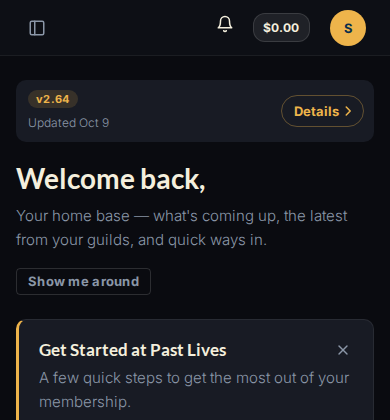
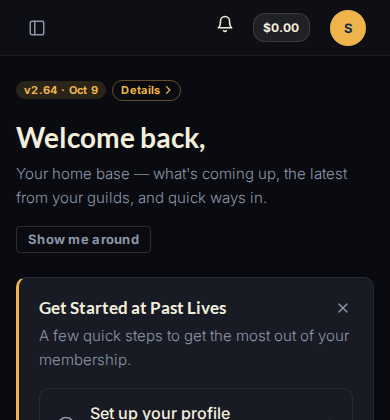
[hub] The quiet Spotlight moves above the divider: the version pill carries the date, Details beside it
Claude-Session: https://claude.ai/code/session_01Ktr8dTP7irLNhJtzRvczD9

diff --git a/static/css/spotlight.css b/static/css/spotlight.css
@@ -727,29 +727,19 @@ html:not([data-spotlight-min]) .pl-spotlight-live .pl-spotlight--minimized {
 }
 
 /* Quiet: no poll and no meeting. The version pill that sat under the logo before the
-   Spotlight, the newest update's date under it, and Details on the right, on a soft strip
-   with no border. */
+   Spotlight, now carrying the newest update's date, and Details as a matching outlined pill. */
 .pl-spotlight--quiet {
     display: flex;
     align-items: center;
-    justify-content: space-between;
-    gap: 0.5rem;
-    padding: 0.625rem 0.625rem 0.625rem 0.75rem;
-    border-radius: 10px;
-    background-color: var(--hub-card-bg);
+    gap: 0.375rem;
 }
 
 .pl-spotlight__quiet-info {
     display: flex;
-    flex-direction: column;
-    align-items: flex-start;
-    gap: 0.3125rem;
     min-width: 0;
 }
 
-.pl-spotlight__quiet-date {
-    font-size: 0.75rem;
-    color: var(--hub-text-muted);
+.pl-spotlight--quiet .pl-badge--version {
     white-space: nowrap;
 }
 
@@ -757,16 +747,17 @@ html:not([data-spotlight-min]) .pl-spotlight-live .pl-spotlight--minimized {
     display: inline-flex;
     flex-shrink: 0;
     align-items: center;
-    gap: 0.125rem;
-    min-height: 32px;
-    padding: 0.25rem 0.5rem 0.25rem 0.75rem;
-    border: 1px solid rgba(238, 180, 75, 0.35);
+    gap: 0.0625rem;
+    padding: 0.0625rem 0.375rem 0.0625rem 0.5rem;
+    border: 1px solid rgba(238, 180, 75, 0.4);
     border-radius: 999px;
     background: none;
-    color: var(--hub-link);
+    color: var(--color-tuscan-yellow);
     font-family: var(--font-body);
-    font-size: 0.8125rem;
+    font-size: 0.6875rem;
     font-weight: 600;
+    letter-spacing: 0.03em;
+    line-height: 1.5;
     cursor: pointer;
     transition: background-color 0.15s ease, border-color 0.15s ease;
 }
@@ -775,4 +766,17 @@ html:not([data-spotlight-min]) .pl-spotlight-live .pl-spotlight--minimized {
 .pl-spotlight__quiet-details:focus-visible {
     border-color: var(--color-tuscan-yellow);
     background-color: rgba(238, 180, 75, 0.15);
+}
+
+/* In the sidebar, Quiet sits inside the logo block, above its divider, lined up under
+   "Member Portal" where the version pill used to be. The logo gives up its divider and bottom
+   padding, and the row takes both. */
+.pl-brand--quiet {
+    padding-bottom: 0.375rem;
+    border-bottom: none;
+}
+
+.hub-sidebar__spotlight--quiet {
+    padding: 0 0.75rem 1rem calc(1rem + 24px + 0.625rem);
+    border-bottom: 1px solid var(--hub-sidebar-border);
 }

diff --git a/templates/hub/base.html b/templates/hub/base.html
@@ -126,7 +126,7 @@
     <div class="hub-sidebar-backdrop" :class="{ 'hub-sidebar-backdrop--visible': sidebarOpen }" @click="sidebarOpen = false"></div>
     <aside class="hub-sidebar" :class="{ 'hub-sidebar--closed': !sidebarOpen }">
         {# A guest reaches only the kiln pages (#691), so its logo goes there rather than bouncing off Home. #}
-        <a href="{% if kiln_nav.guest_only %}{% url 'kiln:mine' %}{% else %}{% url 'hub_home' %}{% endif %}" class="pl-brand">
+        <a href="{% if kiln_nav.guest_only %}{% url 'kiln:mine' %}{% else %}{% url 'hub_home' %}{% endif %}" class="pl-brand{% if spotlight.is_empty %} pl-brand--quiet{% endif %}">
             <img src="{% firstof brand_logo_url fallback_logo %}" alt="{{ brand_short_name }}" class="pl-brand__icon" width="24" height="24">
             <span class="pl-brand__info">
                 <span class="pl-brand__text">Member Portal</span>
@@ -134,7 +134,8 @@
                 {% if not spotlight %}<button type="button" class="pl-badge--version" onclick="event.preventDefault();event.stopPropagation();document.getElementById('changelog-modal').style.display='flex'">v{{ app_version }}</button>{% endif %}
             </span>
         </a>
-        {% if spotlight %}<div class="hub-sidebar__spotlight">{% include "hub/partials/_spotlight.html" with spotlight=spotlight next_url=request.get_full_path %}</div>{% endif %}
+        {# Quiet (no poll, no meeting) joins the logo above the divider, where the version pill sat. #}
+        {% if spotlight %}<div class="hub-sidebar__spotlight{% if spotlight.is_empty %} hub-sidebar__spotlight--quiet{% endif %}">{% include "hub/partials/_spotlight.html" with spotlight=spotlight next_url=request.get_full_path %}</div>{% endif %}
 
         <nav class="hub-sidebar__nav" aria-label="Hub navigation" data-help-key="nav.sidebar" hx-boost="false" @click="if ($event.target.closest('a') && window.innerWidth <= 768) sidebarOpen = false">
             {% if kiln_nav.guest_only %}

diff --git a/templates/hub/partials/_spotlight_quiet.html b/templates/hub/partials/_spotlight_quiet.html
@@ -1,9 +1,8 @@
-{# The Spotlight with no poll and no meeting (spotlight is hub.spotlight.Spotlight): the version pill, which opens the changelog, the newest update's date and Details. #}
+{# The Spotlight with no poll and no meeting (spotlight is hub.spotlight.Spotlight): the version pill carrying the newest update's date, which opens the changelog, and Details. #}
 {% load hub_tags %}
 {% with update=spotlight.latest_update %}
 <div class="pl-spotlight__quiet-info">
-    <button type="button" class="pl-badge--version" @click="$store.spotlight.showChange('')" data-spotlight-quiet-version>v{{ app_version_short }}</button>
-    {% if update %}<span class="pl-spotlight__quiet-date" title="{{ update.date|changelog_date }}" data-spotlight-quiet-date>Updated {{ update.short_date }}</span>{% endif %}
+    <button type="button" class="pl-badge--version" @click="$store.spotlight.showChange('')" {% if update %}title="Updated {{ update.date|changelog_date }}"{% endif %} data-spotlight-quiet-version>v{{ app_version_short }}{% if update %} · {{ update.short_date }}{% endif %}</button>
 </div>
-<button type="button" class="pl-spotlight__quiet-details" data-spotlight-details @click="$store.spotlight.expand()">Details<svg aria-hidden="true" viewBox="0 0 16 16" width="14" height="14"><path d="M6 3.5 10.5 8 6 12.5" fill="none" stroke="currentColor" stroke-width="1.75" stroke-linecap="round" stroke-linejoin="round"/></svg></button>
+<button type="button" class="pl-spotlight__quiet-details" data-spotlight-details @click="$store.spotlight.expand()">Details<svg aria-hidden="true" viewBox="0 0 16 16" width="12" height="12"><path d="M6 3.5 10.5 8 6 12.5" fill="none" stroke="currentColor" stroke-width="1.75" stroke-linecap="round" stroke-linejoin="round"/></svg></button>
 {% endwith %}

diff --git a/tests/hub/spotlight_member_spec.py b/tests/hub/spotlight_member_spec.py
@@ -376,23 +376,22 @@ def describe_with_no_poll_and_no_meeting():
         assert "data-spotlight-home" in html
         assert BACKUP_PILL not in html
 
-    def it_is_quiet_the_version_pill_the_update_date_and_details(monkeypatch: pytest.MonkeyPatch):
+    def it_is_quiet_the_version_pill_with_the_update_date_and_details(monkeypatch: pytest.MonkeyPatch):
         monkeypatch.setattr("plfog.version.CHANGELOG", [LATEST])
         client, _member = _client_for()
 
-        sidebar = _section(client.get(HOME).content.decode(), 'class="hub-sidebar__spotlight"', "hub-sidebar__nav")
+        sidebar = _section(client.get(HOME).content.decode(), "hub-sidebar__spotlight--quiet", "hub-sidebar__nav")
 
         short = ".".join(VERSION.split(".")[:2])
         assert 'data-spotlight-state="quiet"' in sidebar
-        assert f"data-spotlight-quiet-version>v{short}</button>" in sidebar
-        assert 'title="Oct 7, 2026" data-spotlight-quiet-date>Updated Oct 7</span>' in sidebar
+        assert f'title="Updated Oct 7, 2026" data-spotlight-quiet-version>v{short} · Oct 7</button>' in sidebar
         assert "data-spotlight-details" in sidebar
         assert "Zorblax latest" not in sidebar
 
     def it_leaves_out_the_card_minimized_and_past_polls():
         client, _member = _client_for()
 
-        sidebar = _section(client.get(HOME).content.decode(), 'class="hub-sidebar__spotlight"', "hub-sidebar__nav")
+        sidebar = _section(client.get(HOME).content.decode(), "hub-sidebar__spotlight--quiet", "hub-sidebar__nav")
 
         for gone in ('data-spotlight-state="standard"', 'data-spotlight-state="minimized"', "data-spotlight-past"):
             assert gone not in sidebar
@@ -431,3 +430,11 @@ def describe_with_no_poll_and_no_meeting():
             client.get(HOME)
 
         assert len(with_spotlight) - len(without_spotlight) == 1
+
+    def it_sits_above_the_divider_under_member_portal():
+        client, _member = _client_for()
+
+        html = client.get(HOME).content.decode()
+
+        assert 'class="pl-brand pl-brand--quiet"' in html
+        assert 'class="hub-sidebar__spotlight hub-sidebar__spotlight--quiet"' in html
